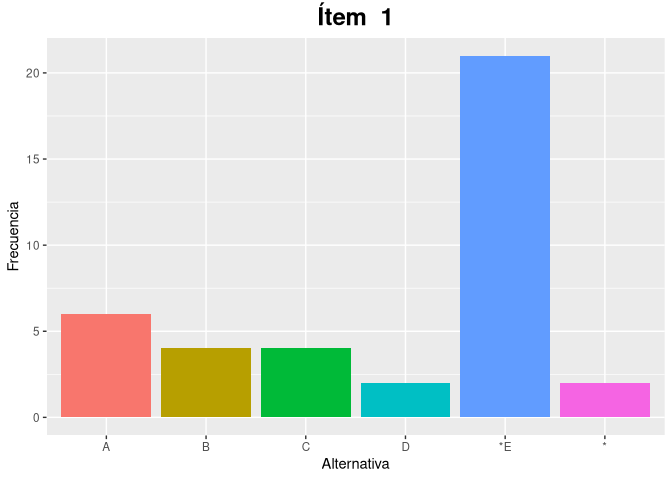
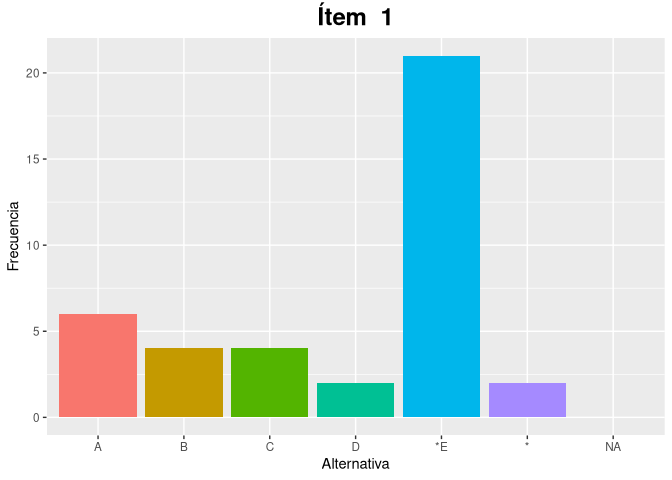
Actualiza readme

diff --git a/README.md b/README.md
@@ -20,7 +20,7 @@ rápidamente su calidad.
 ## Instalación
 
 Para instalar la versión de desarrollo del paquete itan desde
-[GitHub](https://github.com/) con el siguiente comando:
+[GitHub](https://github.com/) use el siguiente comando:
 
 ``` r
 # install.packages("devtools")
@@ -136,13 +136,13 @@ hacerse de forma numérica o gráfica:
 ``` r
 fa <- calcularFrecuenciaAlternativas(respuestas, alternativas, clave, frecuencia = FALSE)
 head(fa)
-#>   item  A  B  C  D  E * KEY
-#> 1  i01  6  4  4  2 21 2   E
-#> 2  i02  0  1  4 33  0 1   D
-#> 3  i03  6  4 26  1  0 2   C
-#> 4  i04 13 22  0  2  1 1   B
-#> 5  i05 17  8  6  0  7 1   A
-#> 6  i06  2  6 25  3  1 2   C
+#>   item  A  B  C  D  E * NA KEY
+#> 1  i01  6  4  4  2 21 2  0   E
+#> 2  i02  0  1  4 33  0 1  0   D
+#> 3  i03  6  4 26  1  0 2  0   C
+#> 4  i04 13 22  0  2  1 1  0   B
+#> 5  i05 17  8  6  0  7 1  0   A
+#> 6  i06  2  6 25  3  1 2  0   C
 ```
 
 ``` r
